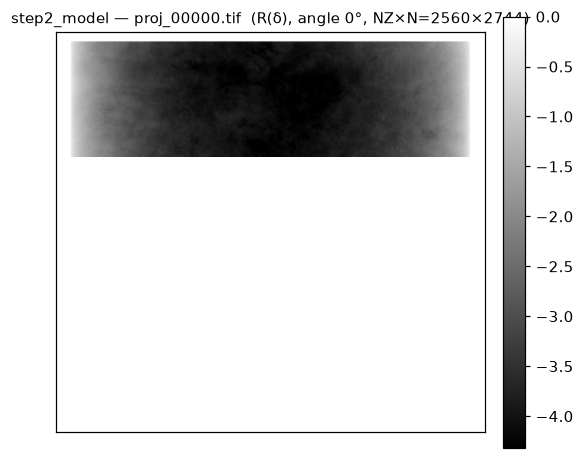
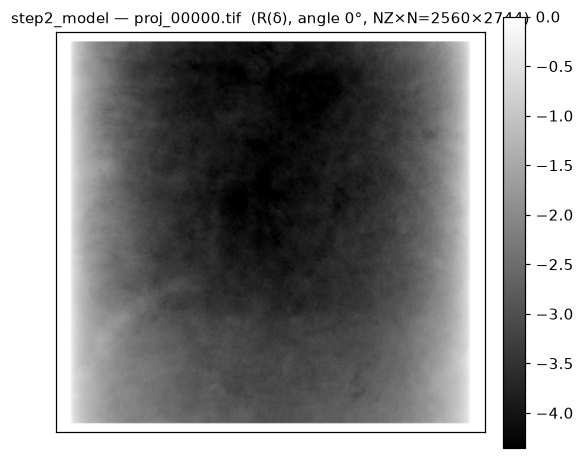
update memmap, and readme

diff --git a/step2_model_big.py b/step2_model_big.py
@@ -211,7 +211,10 @@ def _run_radon(theta: np.ndarray, proj_paths: list[str]) -> None:
            f"(re-reads input volume {N_THETA_BATCHES}×)")
 
     expected_pix_bytes = NZ * N * 4
+    pix_off = None
     if RANK == 0:
+        # Compute the pixel-data offset once from the first file (all files
+        # share the same TIFF layout since they have identical shape/dtype).
         for p in proj_paths:
             if os.path.exists(p):
                 os.remove(p)
@@ -219,11 +222,14 @@ def _run_radon(theta: np.ndarray, proj_paths: list[str]) -> None:
                                  bigtiff=True)
             mm.flush()
             del mm
-            with tifffile.TiffFile(p) as tf:
-                pix_off = int(tf.pages[0].dataoffsets[0])
+            if pix_off is None:
+                with tifffile.TiffFile(p) as tf:
+                    pix_off = int(tf.pages[0].dataoffsets[0])
             need = pix_off + expected_pix_bytes
             if os.path.getsize(p) < need:
                 os.truncate(p, need)
+    if _COMM is not None:
+        pix_off = _COMM.bcast(pix_off, root=0)
     _barrier()
 
     proj_min, proj_max = np.inf, -np.inf
@@ -266,14 +272,15 @@ def _run_radon(theta: np.ndarray, proj_paths: list[str]) -> None:
                 del proj_d_c
                 cp.get_default_memory_pool().free_all_blocks()
 
-                # Scatter into per-angle memmaps.  Fanned over the pool so
-                # open+write+flush run concurrently across MMAP_BATCH files.
-                # Each thread holds one memmap for its scope, so concurrent
-                # fd usage is bounded by pool size, not batch_ntheta.
+                # Threaded scatter with raw np.memmap at the known pixel
+                # offset — skips tifffile's header re-parse on every open,
+                # which is prone to `not a TIFF file: header=b''` under
+                # concurrent shared-filesystem writes.
                 batch_ntheta = tb1 - tb0
 
                 def _scatter_one(i: int) -> None:
-                    mm = tifffile.memmap(proj_paths[tb0 + i], mode='r+')
+                    mm = np.memmap(proj_paths[tb0 + i], dtype=np.float32,
+                                   mode='r+', shape=(NZ, N), offset=pix_off)
                     mm[z0:z1] = proj_chunk_h[i]
                     mm.flush()
 

diff --git a/step2_model_large.py b/step2_model_large.py
@@ -231,7 +231,10 @@ def _run_radon(theta: np.ndarray, proj_paths: list[str]) -> None:
            f"MMAP_BATCH={MMAP_BATCH}")
 
     expected_pix_bytes = NZ * N * 4
+    pix_off = None
     if RANK == 0:
+        # Compute the pixel-data offset once from the first file (all files
+        # share the same TIFF layout since they have identical shape/dtype).
         for p in proj_paths:
             if os.path.exists(p):
                 os.remove(p)
@@ -239,11 +242,14 @@ def _run_radon(theta: np.ndarray, proj_paths: list[str]) -> None:
                                  bigtiff=True)
             mm.flush()
             del mm
-            with tifffile.TiffFile(p) as tf:
-                pix_off = int(tf.pages[0].dataoffsets[0])
+            if pix_off is None:
+                with tifffile.TiffFile(p) as tf:
+                    pix_off = int(tf.pages[0].dataoffsets[0])
             need = pix_off + expected_pix_bytes
             if os.path.getsize(p) < need:
                 os.truncate(p, need)
+    if _COMM is not None:
+        pix_off = _COMM.bcast(pix_off, root=0)
     _barrier()
 
     proj_min, proj_max = np.inf, -np.inf
@@ -279,13 +285,15 @@ def _run_radon(theta: np.ndarray, proj_paths: list[str]) -> None:
                 proj_chunk_h = res_h[:, :k].real.astype(np.float32, copy=False)
                 del res_h
 
-                # Threaded scatter: each thread owns one file's whole
-                # open/write/flush lifecycle, so concurrent fd usage is
-                # bounded by pool size (N_LOAD_THREADS).
+                # Threaded scatter with raw np.memmap at the known pixel
+                # offset — skips tifffile's header re-parse on every open,
+                # which is prone to `not a TIFF file: header=b''` under
+                # concurrent shared-filesystem writes.
                 batch_ntheta = tb1 - tb0
 
                 def _scatter_one(i: int) -> None:
-                    mm = tifffile.memmap(proj_paths[tb0 + i], mode='r+')
+                    mm = np.memmap(proj_paths[tb0 + i], dtype=np.float32,
+                                   mode='r+', shape=(NZ, N), offset=pix_off)
                     mm[z0:z1] = proj_chunk_h[i]
                     mm.flush()
 

diff --git a/README.md b/README.md
@@ -98,6 +98,13 @@ Shared filesystem (Lustre/GPFS/NFS) is assumed — `--path` should point at the
 same location from every node.  Each MPI rank writes only its own shard, and
 ranks synchronise via `MPI.Barrier` between stages.
 
+**Site-specific `--path` defaults for the init dataset:**
+
+| site  | init folder location                    | pass to `--path`                |
+|-------|-----------------------------------------|---------------------------------|
+| APS   | `/data2/brain_sym_mosaic/init`          | `--path /data2/brain_sym_mosaic`|
+| MaxIV | `/data/ingest/vviknik/init` *(current)* | `--path /data/ingest/vviknik`   |
+
 ---
 
 ## What each step produces
